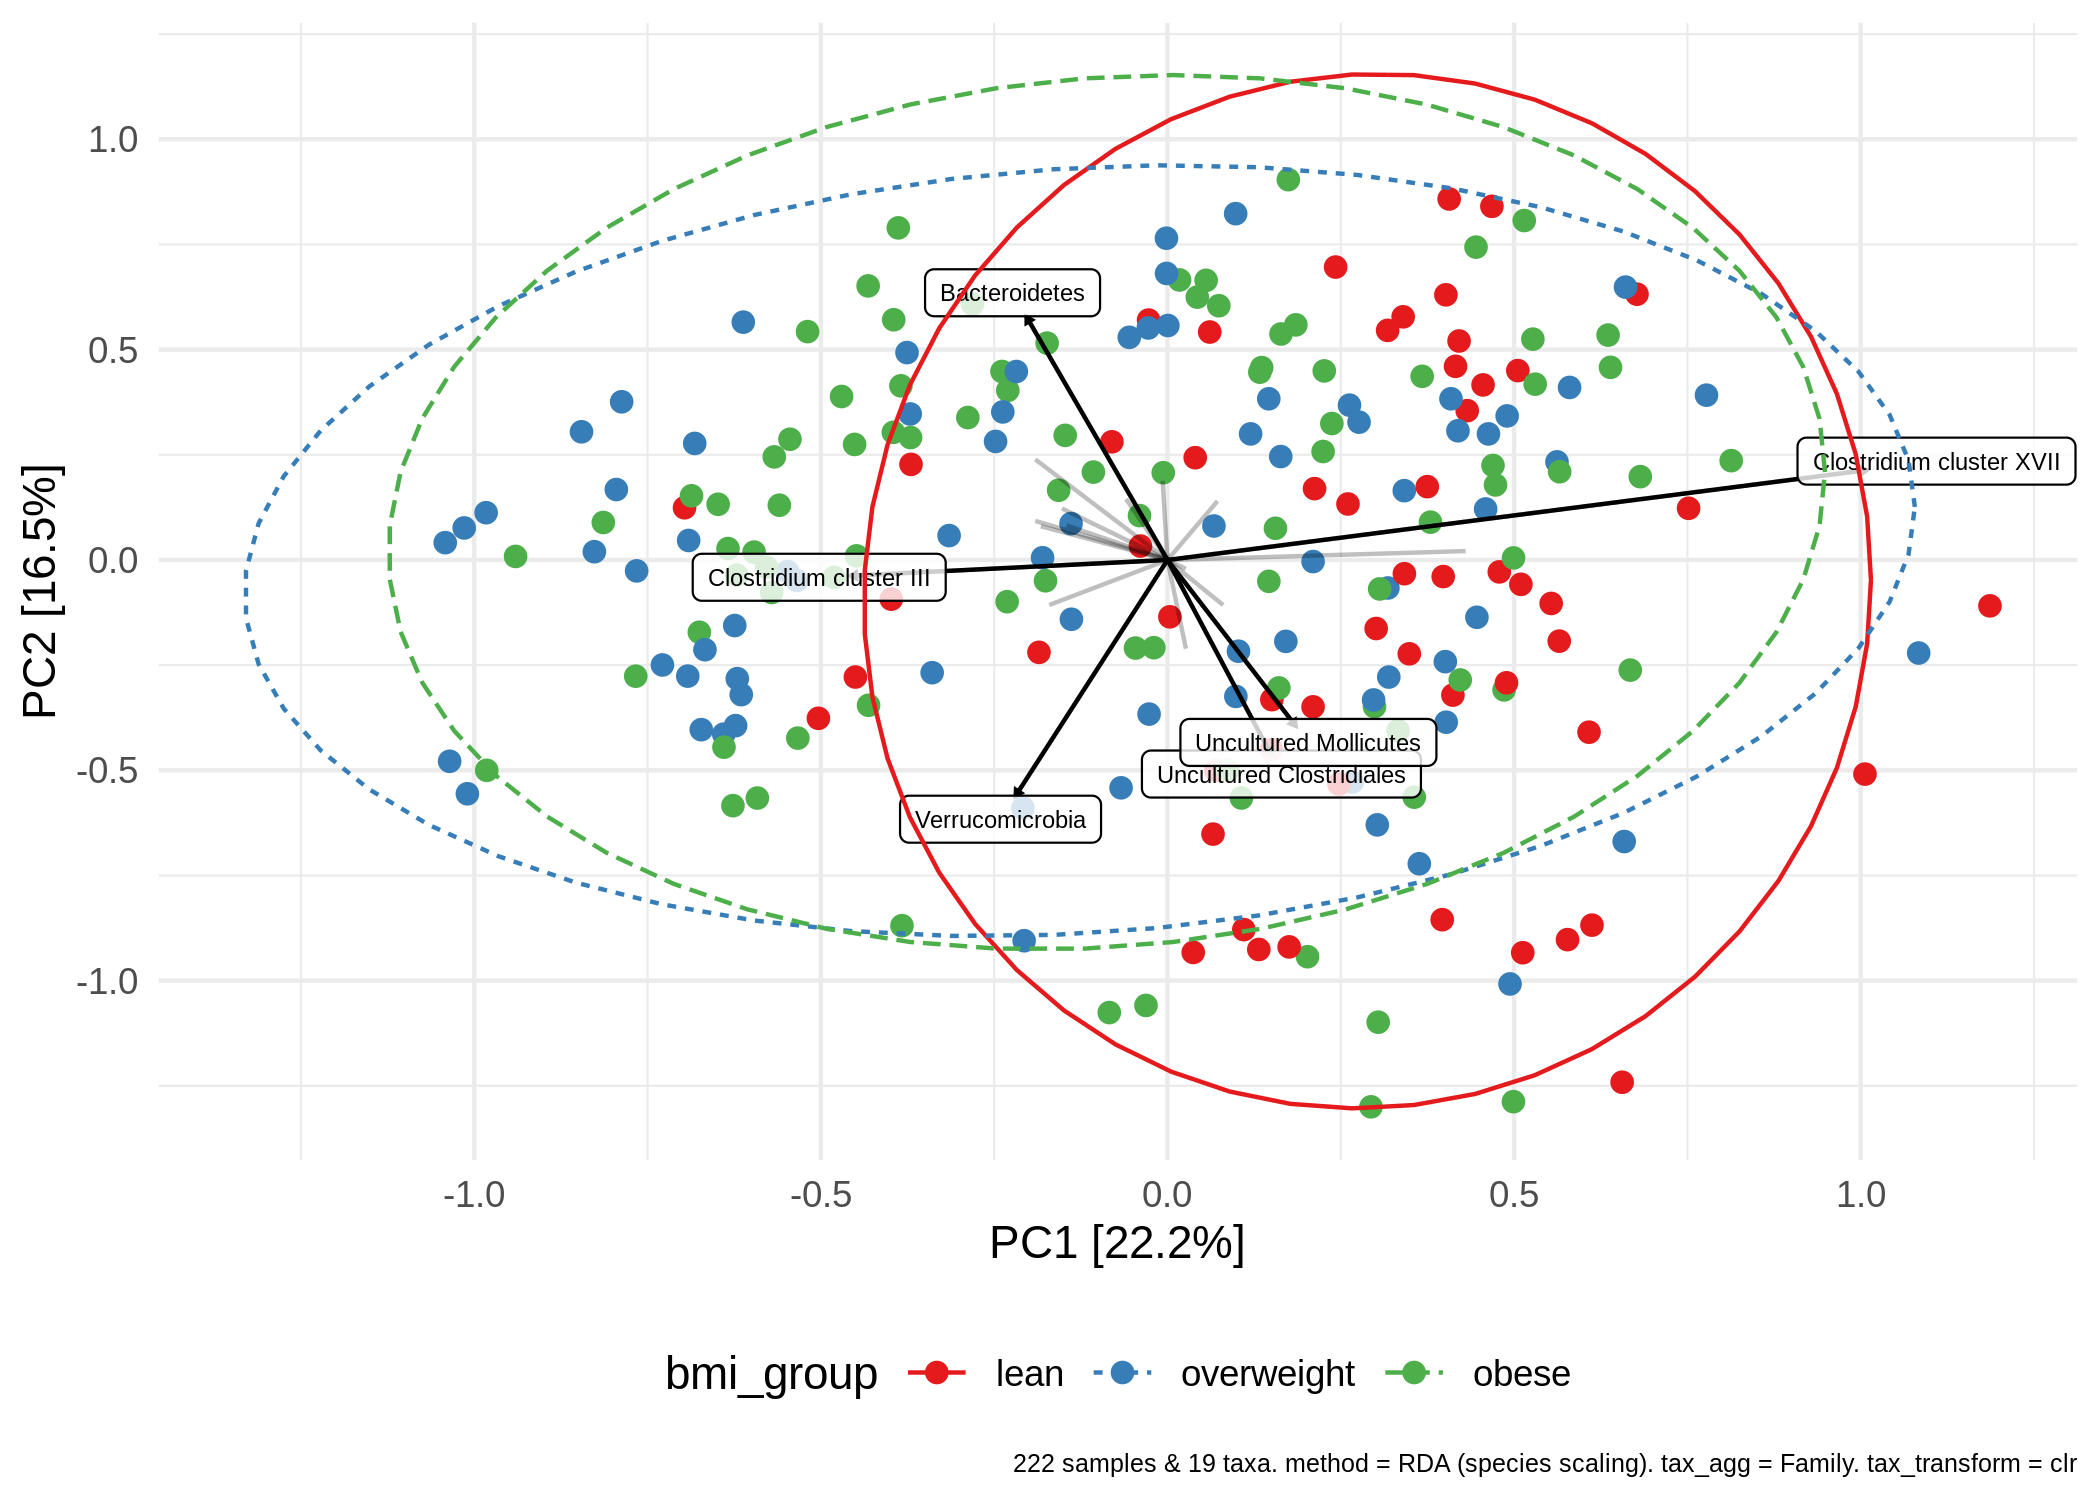
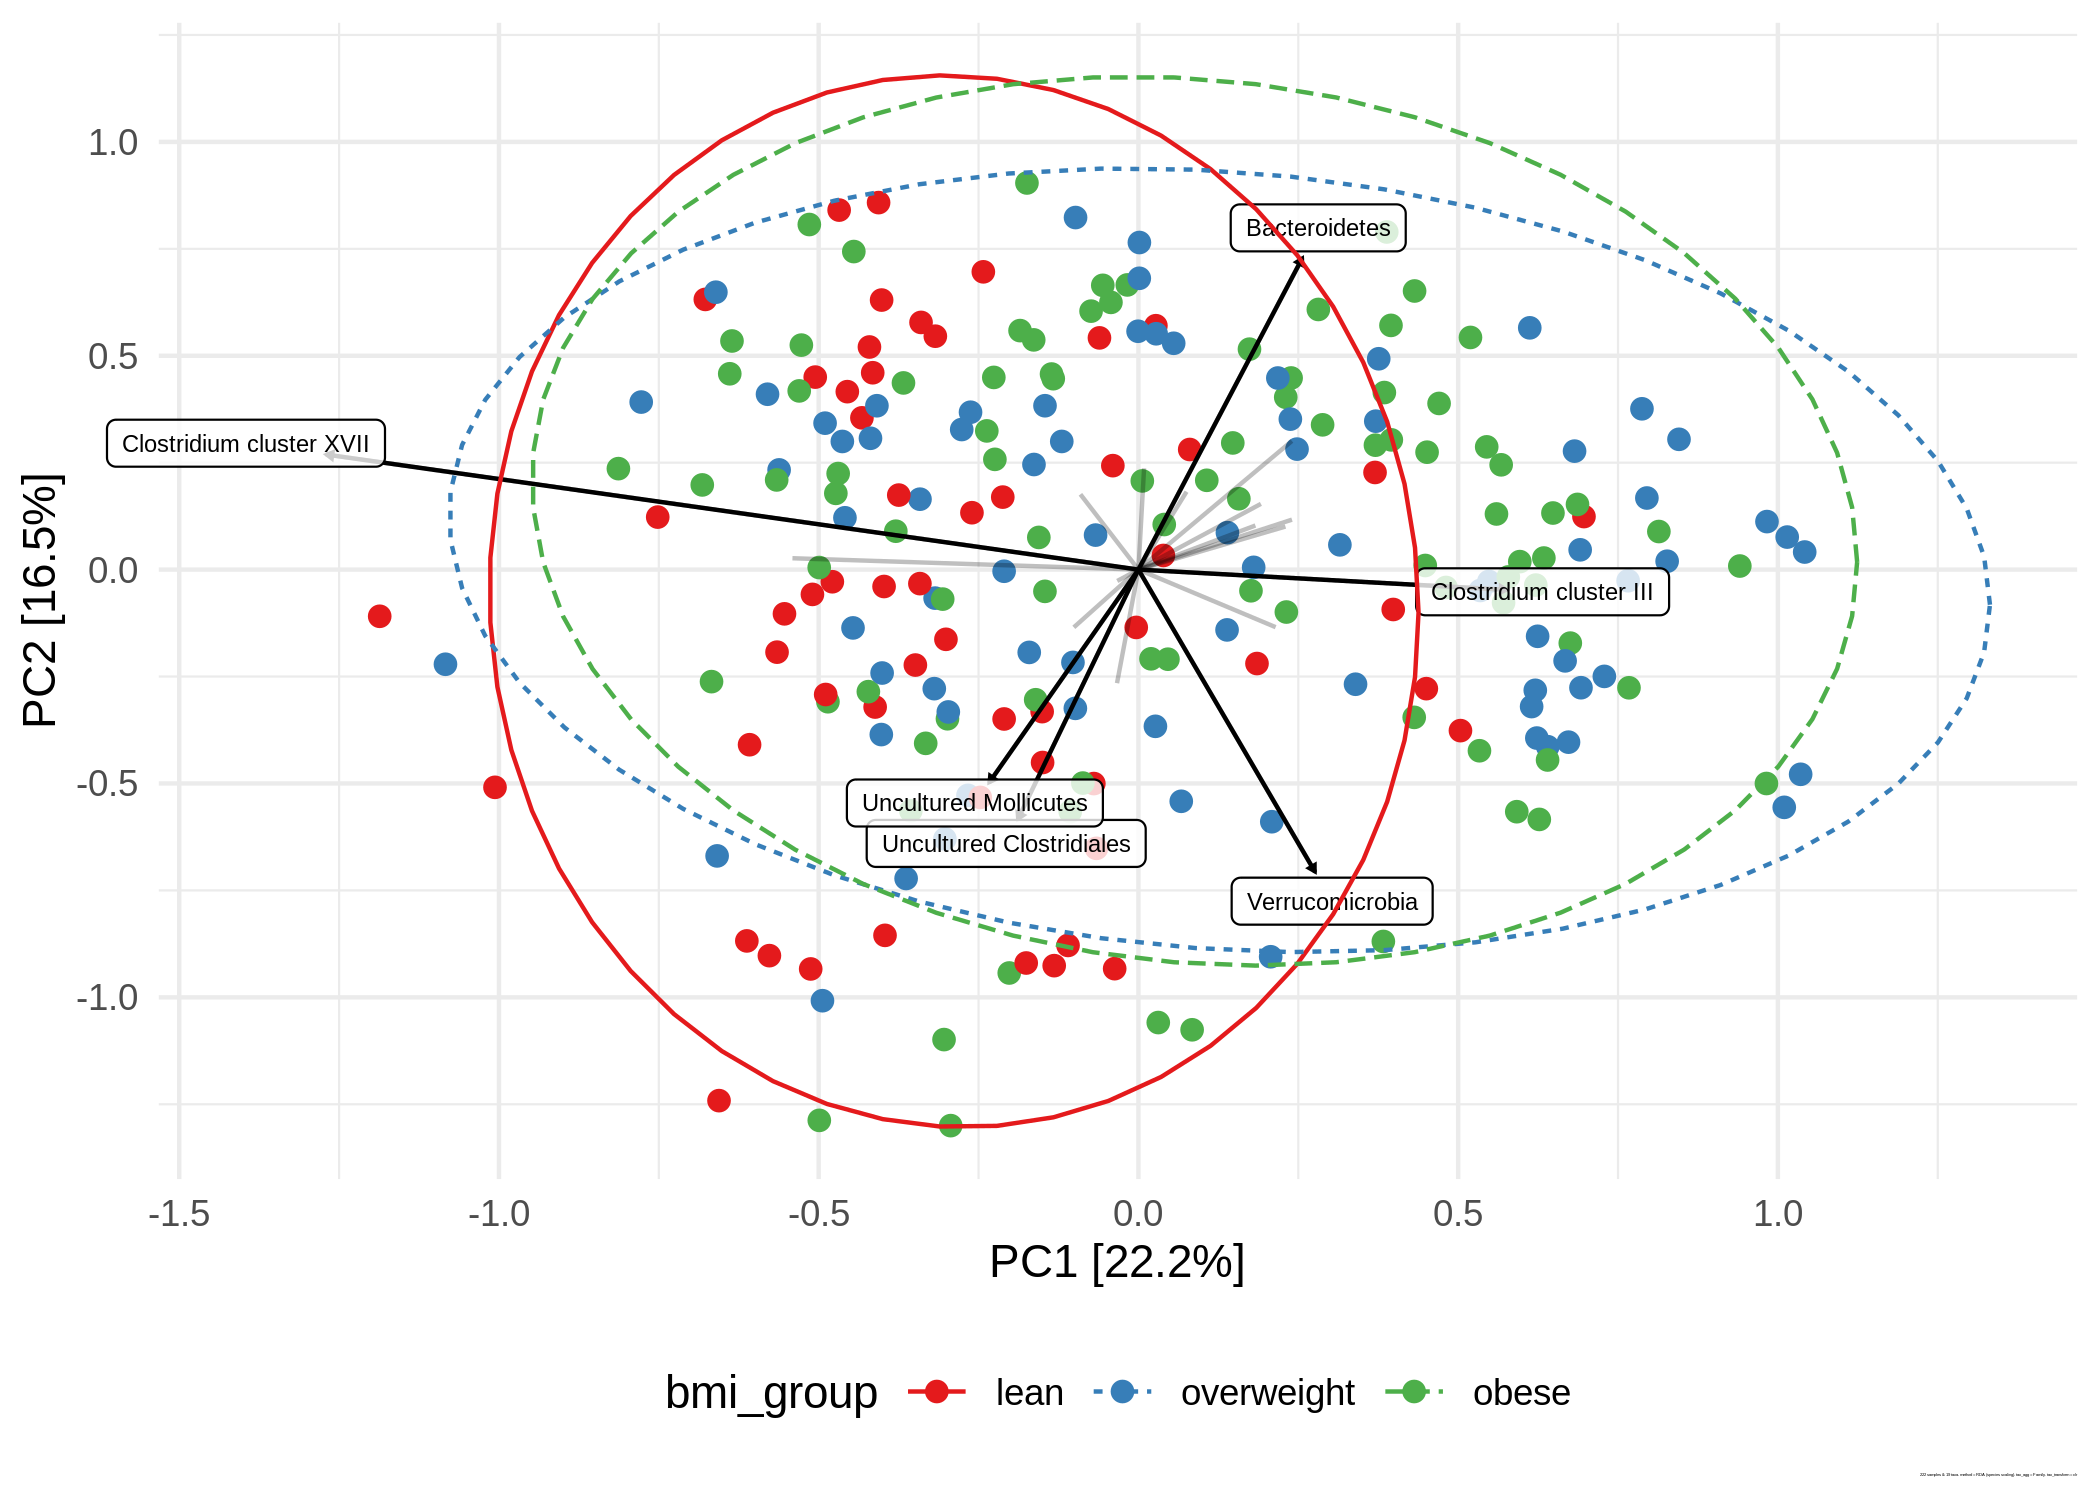
move corncob to cran list and regen readme

diff --git a/README.md b/README.md
@@ -54,7 +54,7 @@ BiocManager::install(c("phyloseq", "microbiome"))
 
 # # Installing the latest version of this package # #
 install.packages("devtools")
-devtools::install_github("MUMC-MEDMIC/microViz@0.4.1") # check 0.4.1 is the latest version?
+devtools::install_github("MUMC-MEDMIC/microViz@0.5.0") # check 0.5.0 is the latest version?
 # advanced tip: add @<commit-hash> after microViz to install a version from a particular commit
 # If you get an error including something like: 
 # "check that you have the required permissions" 
@@ -97,6 +97,7 @@ BMI groups?
 
 ``` r
 dietswap %>%
+  tax_filter(min_prevalence = 1) %>%
   comp_barplot(tax_level = "Genus",  n_taxa = 10) +
   facet_wrap("bmi_group", nrow = 3, scales = "free") +
   labs(x = NULL, y = NULL) +
@@ -149,6 +150,7 @@ unconstrained_aitchison_pca <-
 pca_plot <- unconstrained_aitchison_pca %>%
   ord_plot(
     plot_taxa = 1:6, colour = "bmi_group", size = 2,
+    tax_vec_length = 0.5,
     auto_caption = TRUE
   )
 
@@ -190,8 +192,8 @@ aitchison_perm <- dist_permanova(
   variables = "bmi_group + female"
 )
 #> Dropping samples with missings: 2
-#> 2021-02-15 12:29:35 - Starting PERMANOVA with 99 perms with 1 processes
-#> 2021-02-15 12:29:35 - Finished PERMANOVA
+#> 2021-03-14 22:48:44 - Starting PERMANOVA with 99 perms with 1 processes
+#> 2021-03-14 22:48:44 - Finished PERMANOVA
 # view the permanova results
 perm_get(aitchison_perm)
 #> Permutation test for adonis under reduced model
@@ -221,8 +223,8 @@ your permanova directly using the ord\_plot function with constraints.
 ``` r
 perm2 <- dist_permanova(data = aitchison_dists, variables = c("weight", "female"), seed = 321)
 #> Dropping samples with missings: 2
-#> 2021-02-15 12:29:35 - Starting PERMANOVA with 999 perms with 1 processes
-#> 2021-02-15 12:29:35 - Finished PERMANOVA
+#> 2021-03-14 22:48:44 - Starting PERMANOVA with 999 perms with 1 processes
+#> 2021-03-14 22:48:44 - Finished PERMANOVA
 perm_get(perm2)
 #> Permutation test for adonis under reduced model
 #> Marginal effects of terms
@@ -268,106 +270,109 @@ devtools::session_info()
 #>  collate  en_GB.UTF-8                 
 #>  ctype    en_GB.UTF-8                 
 #>  tz       Europe/Amsterdam            
-#>  date     2021-02-15                  
+#>  date     2021-03-14                  
 #> 
 #> ─ Packages ───────────────────────────────────────────────────────────────────────────────────────
-#>  package      * version date       lib source        
-#>  ade4           1.7-16  2020-10-28 [1] CRAN (R 4.0.3)
-#>  ape            5.4-1   2020-08-13 [1] CRAN (R 4.0.3)
-#>  assertthat     0.2.1   2019-03-21 [1] CRAN (R 4.0.3)
-#>  Biobase        2.50.0  2020-10-27 [1] Bioconductor  
-#>  BiocGenerics   0.36.0  2020-10-27 [1] Bioconductor  
-#>  biomformat     1.18.0  2020-10-27 [1] Bioconductor  
-#>  Biostrings     2.58.0  2020-10-27 [1] Bioconductor  
-#>  cachem         1.0.4   2021-02-13 [1] CRAN (R 4.0.3)
-#>  callr          3.5.1   2020-10-13 [1] CRAN (R 4.0.3)
-#>  cli            2.3.0   2021-01-31 [1] CRAN (R 4.0.3)
-#>  cluster        2.1.0   2019-06-19 [2] CRAN (R 4.0.3)
-#>  codetools      0.2-18  2020-11-04 [1] CRAN (R 4.0.3)
-#>  colorspace     2.0-0   2020-11-11 [1] CRAN (R 4.0.3)
-#>  crayon         1.4.1   2021-02-08 [1] CRAN (R 4.0.3)
-#>  data.table     1.13.6  2020-12-30 [1] CRAN (R 4.0.3)
-#>  desc           1.2.0   2018-05-01 [1] CRAN (R 4.0.3)
-#>  devtools     * 2.3.2   2020-09-18 [1] CRAN (R 4.0.3)
-#>  digest         0.6.27  2020-10-24 [1] CRAN (R 4.0.3)
-#>  dplyr        * 1.0.4   2021-02-02 [1] CRAN (R 4.0.3)
-#>  ellipsis       0.3.1   2020-05-15 [1] CRAN (R 4.0.3)
-#>  evaluate       0.14    2019-05-28 [1] CRAN (R 4.0.3)
-#>  farver         2.0.3   2020-01-16 [1] CRAN (R 4.0.3)
-#>  fastmap        1.1.0   2021-01-25 [1] CRAN (R 4.0.3)
-#>  foreach        1.5.1   2020-10-15 [1] CRAN (R 4.0.3)
-#>  fs             1.5.0   2020-07-31 [1] CRAN (R 4.0.3)
-#>  generics       0.1.0   2020-10-31 [1] CRAN (R 4.0.3)
-#>  ggplot2      * 3.3.3   2020-12-30 [1] CRAN (R 4.0.3)
-#>  glue           1.4.2   2020-08-27 [1] CRAN (R 4.0.3)
-#>  gtable         0.3.0   2019-03-25 [1] CRAN (R 4.0.3)
-#>  highr          0.8     2019-03-20 [1] CRAN (R 4.0.3)
-#>  hms            1.0.0   2021-01-13 [1] CRAN (R 4.0.3)
-#>  htmltools      0.5.1.1 2021-01-22 [1] CRAN (R 4.0.3)
-#>  igraph         1.2.6   2020-10-06 [1] CRAN (R 4.0.3)
-#>  IRanges        2.24.1  2020-12-12 [1] Bioconductor  
-#>  iterators      1.0.13  2020-10-15 [1] CRAN (R 4.0.3)
-#>  jsonlite       1.7.2   2020-12-09 [1] CRAN (R 4.0.3)
-#>  knitr          1.31    2021-01-27 [1] CRAN (R 4.0.3)
-#>  labeling       0.4.2   2020-10-20 [1] CRAN (R 4.0.3)
-#>  lattice      * 0.20-41 2020-04-02 [2] CRAN (R 4.0.3)
-#>  lifecycle      0.2.0   2020-03-06 [1] CRAN (R 4.0.3)
-#>  magrittr       2.0.1   2020-11-17 [1] CRAN (R 4.0.3)
-#>  MASS           7.3-53  2020-09-09 [2] CRAN (R 4.0.3)
-#>  Matrix         1.3-2   2021-01-06 [1] CRAN (R 4.0.3)
-#>  memoise        2.0.0   2021-01-26 [1] CRAN (R 4.0.3)
-#>  mgcv           1.8-33  2020-08-27 [2] CRAN (R 4.0.3)
-#>  microbiome   * 1.12.0  2020-10-27 [1] Bioconductor  
-#>  microViz     * 0.4.1   2021-02-15 [1] local         
-#>  multtest       2.46.0  2020-10-27 [1] Bioconductor  
-#>  munsell        0.5.0   2018-06-12 [1] CRAN (R 4.0.3)
-#>  nlme           3.1-149 2020-08-23 [2] CRAN (R 4.0.3)
-#>  permute      * 0.9-5   2019-03-12 [1] CRAN (R 4.0.3)
-#>  phyloseq     * 1.34.0  2020-10-27 [1] Bioconductor  
-#>  pillar         1.4.7   2020-11-20 [1] CRAN (R 4.0.3)
-#>  pkgbuild       1.2.0   2020-12-15 [1] CRAN (R 4.0.3)
-#>  pkgconfig      2.0.3   2019-09-22 [1] CRAN (R 4.0.3)
-#>  pkgdown      * 1.6.1   2020-09-12 [1] CRAN (R 4.0.3)
-#>  pkgload        1.1.0   2020-05-29 [1] CRAN (R 4.0.3)
-#>  plyr           1.8.6   2020-03-03 [1] CRAN (R 4.0.3)
-#>  prettyunits    1.1.1   2020-01-24 [1] CRAN (R 4.0.3)
-#>  processx       3.4.5   2020-11-30 [1] CRAN (R 4.0.3)
-#>  progress       1.2.2   2019-05-16 [1] CRAN (R 4.0.3)
-#>  ps             1.5.0   2020-12-05 [1] CRAN (R 4.0.3)
-#>  purrr          0.3.4   2020-04-17 [1] CRAN (R 4.0.3)
-#>  R6             2.5.0   2020-10-28 [1] CRAN (R 4.0.3)
-#>  RColorBrewer   1.1-2   2014-12-07 [1] CRAN (R 4.0.3)
-#>  Rcpp           1.0.6   2021-01-15 [1] CRAN (R 4.0.3)
-#>  registry       0.5-1   2019-03-05 [1] CRAN (R 4.0.3)
-#>  remotes        2.2.0   2020-07-21 [1] CRAN (R 4.0.3)
-#>  reshape2       1.4.4   2020-04-09 [1] CRAN (R 4.0.3)
-#>  rhdf5          2.34.0  2020-10-27 [1] Bioconductor  
-#>  rhdf5filters   1.2.0   2020-10-27 [1] Bioconductor  
-#>  Rhdf5lib       1.12.1  2021-01-26 [1] Bioconductor  
-#>  rlang          0.4.10  2020-12-30 [1] CRAN (R 4.0.3)
-#>  rmarkdown      2.6     2020-12-14 [1] CRAN (R 4.0.3)
-#>  rprojroot      2.0.2   2020-11-15 [1] CRAN (R 4.0.3)
-#>  Rtsne          0.15    2018-11-10 [1] CRAN (R 4.0.3)
-#>  S4Vectors      0.28.1  2020-12-09 [1] Bioconductor  
-#>  scales         1.1.1   2020-05-11 [1] CRAN (R 4.0.3)
-#>  seriation      1.2-9   2020-10-01 [1] CRAN (R 4.0.3)
-#>  sessioninfo    1.1.1   2018-11-05 [1] CRAN (R 4.0.3)
-#>  stringi        1.5.3   2020-09-09 [1] CRAN (R 4.0.3)
-#>  stringr        1.4.0   2019-02-10 [1] CRAN (R 4.0.3)
-#>  survival       3.2-7   2020-09-28 [2] CRAN (R 4.0.3)
-#>  testthat       3.0.2   2021-02-14 [1] CRAN (R 4.0.3)
-#>  tibble         3.0.6   2021-01-29 [1] CRAN (R 4.0.3)
-#>  tidyr          1.1.2   2020-08-27 [1] CRAN (R 4.0.3)
-#>  tidyselect     1.1.0   2020-05-11 [1] CRAN (R 4.0.3)
-#>  TSP            1.1-10  2020-04-17 [1] CRAN (R 4.0.3)
-#>  usethis      * 2.0.0   2020-12-10 [1] CRAN (R 4.0.3)
-#>  vctrs          0.3.6   2020-12-17 [1] CRAN (R 4.0.3)
-#>  vegan        * 2.5-7   2020-11-28 [1] CRAN (R 4.0.3)
-#>  withr          2.4.1   2021-01-26 [1] CRAN (R 4.0.3)
-#>  xfun           0.20    2021-01-06 [1] CRAN (R 4.0.3)
-#>  XVector        0.30.0  2020-10-27 [1] Bioconductor  
-#>  yaml           2.2.1   2020-02-01 [1] CRAN (R 4.0.3)
-#>  zlibbioc       1.36.0  2020-10-27 [1] Bioconductor  
+#>  package      * version    date       lib source        
+#>  ade4           1.7-16     2020-10-28 [1] CRAN (R 4.0.3)
+#>  ape            5.4-1      2020-08-13 [1] CRAN (R 4.0.3)
+#>  assertthat     0.2.1      2019-03-21 [1] CRAN (R 4.0.3)
+#>  Biobase        2.50.0     2020-10-27 [1] Bioconductor  
+#>  BiocGenerics   0.36.0     2020-10-27 [1] Bioconductor  
+#>  biomformat     1.18.0     2020-10-27 [1] Bioconductor  
+#>  Biostrings     2.58.0     2020-10-27 [1] Bioconductor  
+#>  cachem         1.0.4      2021-02-13 [1] CRAN (R 4.0.3)
+#>  callr          3.5.1      2020-10-13 [1] CRAN (R 4.0.3)
+#>  cli            2.3.1      2021-02-23 [1] CRAN (R 4.0.3)
+#>  cluster        2.1.0      2019-06-19 [2] CRAN (R 4.0.3)
+#>  codetools      0.2-18     2020-11-04 [1] CRAN (R 4.0.3)
+#>  colorspace     2.0-0      2020-11-11 [1] CRAN (R 4.0.3)
+#>  crayon         1.4.1      2021-02-08 [1] CRAN (R 4.0.3)
+#>  data.table     1.14.0     2021-02-21 [1] CRAN (R 4.0.3)
+#>  debugme        1.1.0      2017-10-22 [1] CRAN (R 4.0.3)
+#>  desc           1.2.0      2018-05-01 [1] CRAN (R 4.0.3)
+#>  devtools     * 2.3.2      2020-09-18 [1] CRAN (R 4.0.3)
+#>  digest         0.6.27     2020-10-24 [1] CRAN (R 4.0.3)
+#>  dplyr        * 1.0.5      2021-03-05 [1] CRAN (R 4.0.3)
+#>  ellipsis       0.3.1      2020-05-15 [1] CRAN (R 4.0.3)
+#>  evaluate       0.14       2019-05-28 [1] CRAN (R 4.0.3)
+#>  fansi          0.4.2      2021-01-15 [1] CRAN (R 4.0.3)
+#>  farver         2.1.0      2021-02-28 [1] CRAN (R 4.0.3)
+#>  fastmap        1.1.0      2021-01-25 [1] CRAN (R 4.0.3)
+#>  foreach        1.5.1      2020-10-15 [1] CRAN (R 4.0.3)
+#>  fs             1.5.0      2020-07-31 [1] CRAN (R 4.0.3)
+#>  generics       0.1.0      2020-10-31 [1] CRAN (R 4.0.3)
+#>  ggplot2      * 3.3.3      2020-12-30 [1] CRAN (R 4.0.3)
+#>  glue           1.4.2      2020-08-27 [1] CRAN (R 4.0.3)
+#>  gtable         0.3.0      2019-03-25 [1] CRAN (R 4.0.3)
+#>  highr          0.8        2019-03-20 [1] CRAN (R 4.0.3)
+#>  hms            1.0.0      2021-01-13 [1] CRAN (R 4.0.3)
+#>  htmltools      0.5.1.1    2021-01-22 [1] CRAN (R 4.0.3)
+#>  igraph         1.2.6      2020-10-06 [1] CRAN (R 4.0.3)
+#>  IRanges        2.24.1     2020-12-12 [1] Bioconductor  
+#>  iterators      1.0.13     2020-10-15 [1] CRAN (R 4.0.3)
+#>  jsonlite       1.7.2      2020-12-09 [1] CRAN (R 4.0.3)
+#>  knitr          1.31       2021-01-27 [1] CRAN (R 4.0.3)
+#>  labeling       0.4.2      2020-10-20 [1] CRAN (R 4.0.3)
+#>  lattice      * 0.20-41    2020-04-02 [2] CRAN (R 4.0.3)
+#>  lifecycle      1.0.0      2021-02-15 [1] CRAN (R 4.0.3)
+#>  magrittr       2.0.1      2020-11-17 [1] CRAN (R 4.0.3)
+#>  MASS           7.3-53     2020-09-09 [2] CRAN (R 4.0.3)
+#>  Matrix         1.3-2      2021-01-06 [1] CRAN (R 4.0.3)
+#>  memoise        2.0.0      2021-01-26 [1] CRAN (R 4.0.3)
+#>  mgcv           1.8-33     2020-08-27 [2] CRAN (R 4.0.3)
+#>  microbiome   * 1.12.0     2020-10-27 [1] Bioconductor  
+#>  microViz     * 0.5.0.9003 2021-03-14 [1] local         
+#>  multtest       2.46.0     2020-10-27 [1] Bioconductor  
+#>  munsell        0.5.0      2018-06-12 [1] CRAN (R 4.0.3)
+#>  nlme           3.1-149    2020-08-23 [2] CRAN (R 4.0.3)
+#>  permute      * 0.9-5      2019-03-12 [1] CRAN (R 4.0.3)
+#>  phyloseq     * 1.34.0     2020-10-27 [1] Bioconductor  
+#>  pillar         1.5.1      2021-03-05 [1] CRAN (R 4.0.3)
+#>  pkgbuild       1.2.0      2020-12-15 [1] CRAN (R 4.0.3)
+#>  pkgconfig      2.0.3      2019-09-22 [1] CRAN (R 4.0.3)
+#>  pkgdown      * 1.6.1      2020-09-12 [1] CRAN (R 4.0.3)
+#>  pkgload        1.2.0      2021-02-23 [1] CRAN (R 4.0.3)
+#>  plyr           1.8.6      2020-03-03 [1] CRAN (R 4.0.3)
+#>  prettyunits    1.1.1      2020-01-24 [1] CRAN (R 4.0.3)
+#>  processx       3.4.5      2020-11-30 [1] CRAN (R 4.0.3)
+#>  progress       1.2.2      2019-05-16 [1] CRAN (R 4.0.3)
+#>  ps             1.6.0      2021-02-28 [1] CRAN (R 4.0.3)
+#>  purrr          0.3.4      2020-04-17 [1] CRAN (R 4.0.3)
+#>  R6             2.5.0      2020-10-28 [1] CRAN (R 4.0.3)
+#>  RColorBrewer   1.1-2      2014-12-07 [1] CRAN (R 4.0.3)
+#>  Rcpp           1.0.6      2021-01-15 [1] CRAN (R 4.0.3)
+#>  registry       0.5-1      2019-03-05 [1] CRAN (R 4.0.3)
+#>  remotes        2.2.0      2020-07-21 [1] CRAN (R 4.0.3)
+#>  reshape2       1.4.4      2020-04-09 [1] CRAN (R 4.0.3)
+#>  rhdf5          2.34.0     2020-10-27 [1] Bioconductor  
+#>  rhdf5filters   1.2.0      2020-10-27 [1] Bioconductor  
+#>  Rhdf5lib       1.12.1     2021-01-26 [1] Bioconductor  
+#>  rlang          0.4.10     2020-12-30 [1] CRAN (R 4.0.3)
+#>  rmarkdown      2.7        2021-02-19 [1] CRAN (R 4.0.3)
+#>  rprojroot      2.0.2      2020-11-15 [1] CRAN (R 4.0.3)
+#>  Rtsne          0.15       2018-11-10 [1] CRAN (R 4.0.3)
+#>  S4Vectors      0.28.1     2020-12-09 [1] Bioconductor  
+#>  scales         1.1.1      2020-05-11 [1] CRAN (R 4.0.3)
+#>  seriation      1.2-9      2020-10-01 [1] CRAN (R 4.0.3)
+#>  sessioninfo    1.1.1      2018-11-05 [1] CRAN (R 4.0.3)
+#>  stringi        1.5.3      2020-09-09 [1] CRAN (R 4.0.3)
+#>  stringr        1.4.0      2019-02-10 [1] CRAN (R 4.0.3)
+#>  survival       3.2-7      2020-09-28 [2] CRAN (R 4.0.3)
+#>  testthat       3.0.2      2021-02-14 [1] CRAN (R 4.0.3)
+#>  tibble         3.1.0      2021-02-25 [1] CRAN (R 4.0.3)
+#>  tidyr          1.1.3      2021-03-03 [1] CRAN (R 4.0.3)
+#>  tidyselect     1.1.0      2020-05-11 [1] CRAN (R 4.0.3)
+#>  TSP            1.1-10     2020-04-17 [1] CRAN (R 4.0.3)
+#>  usethis      * 2.0.1      2021-02-10 [1] CRAN (R 4.0.3)
+#>  utf8           1.2.1      2021-03-12 [1] CRAN (R 4.0.3)
+#>  vctrs          0.3.6      2020-12-17 [1] CRAN (R 4.0.3)
+#>  vegan        * 2.5-7      2020-11-28 [1] CRAN (R 4.0.3)
+#>  withr          2.4.1      2021-01-26 [1] CRAN (R 4.0.3)
+#>  xfun           0.21       2021-02-10 [1] CRAN (R 4.0.3)
+#>  XVector        0.30.0     2020-10-27 [1] Bioconductor  
+#>  yaml           2.2.1      2020-02-01 [1] CRAN (R 4.0.3)
+#>  zlibbioc       1.36.0     2020-10-27 [1] Bioconductor  
 #> 
 #> [1] /home/david/R/x86_64-pc-linux-gnu-library/4.0
 #> [2] /opt/R/4.0.3/lib/R/library
